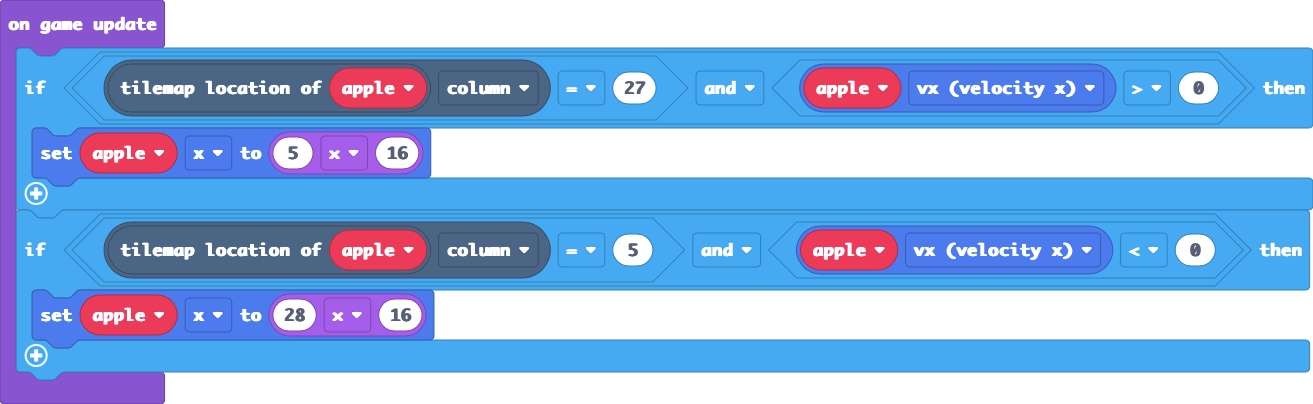
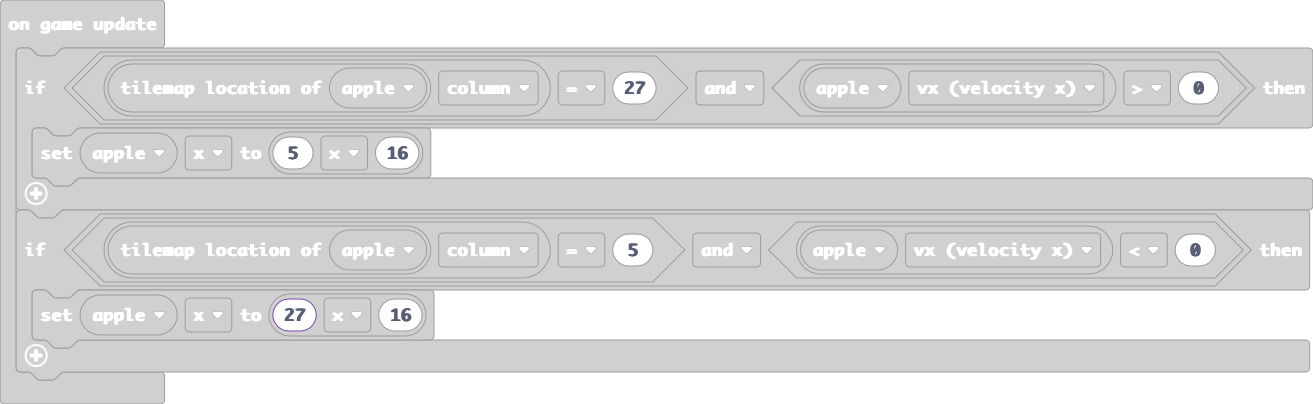
new tilemap

diff --git a/tilemap.g.ts b/tilemap.g.ts
@@ -44,7 +44,7 @@ namespace myTiles {
 . . . . . . . . . . . . . . . . 
 `, [myTiles.transparency16], TileScale.Sixteen);
             case "level2":
-            case "level2":return tiles.createTilemap(hex`200010000000000000000000000000000000000000000000000000000000000000000000000000000000000000000000000000000000000000000000000000000000000000000000000000000000000000000000000000000000000000000000000000000000000000000000000000000000000000000000000000000000000000000000000000000000000000000000000000000000000000000000000000000000000000000000000000000000000000000000000000000000000000000000000000000000000000000000000000000000000000000000000000000000000000000000000000000000000000000000000000000000000000000000000000000000000000000000000000000000000000000000000000000000000000000000000000000000000000000000000000000000000000000000000000000000000000000000000000000000000000000000000000000000000000000000000000000000000000000000000000000000000000000000000000000000000000000000000000000000000000000000000101010000000001000000010100000000000000000000000000000000000001010101010000010100000001010100000000000000000000000000000000010101010101000101010100010101010100000000000000000101010101010101010101010101010101010101010101010101010101010101`, img`
+            case "level2":return tiles.createTilemap(hex`200010000000000000000000000000000000000000000000000000000000000000000000000000000000000000000000000000000000000000000000000000000000000000000000000000000000000000000000000000000000000000000000000000000000000000000000000000000000000000000000000000000000000000000000000000000000000000000000000000000000000000000000000000000000000000000000000000000000000000000000000000000000000000000000000000000000000000000000000000000000000000000000000000000000000000000000000000000000000000000000000000000000000000000000000000000000000000000000000000000000000000000000000000000000000000000000000000000000000000000000000000000000000000000000000000000000000000000000000000000000000000000000000000000000000000000000000000000000000000000000000000000000000000000000000000000000000000000000000000000000000000010100000000000000000000000000000000000000000101000000000000000101010101010100000000000000000000000000000001010101010101010101010101010101010101000000000001010101010101010101010101010101010101010101010101010101010101010101010101010101010101010101`, img`
 ................................
 ................................
 ................................

diff --git a/main.ts b/main.ts
@@ -140,6 +140,6 @@ game.onUpdate(function () {
         apple.x = 5 * 16
     }
     if (apple.tilemapLocation().column == 5 && apple.vx < 0) {
-        apple.x = 28 * 16
+        apple.x = 27 * 16
     }
 })
